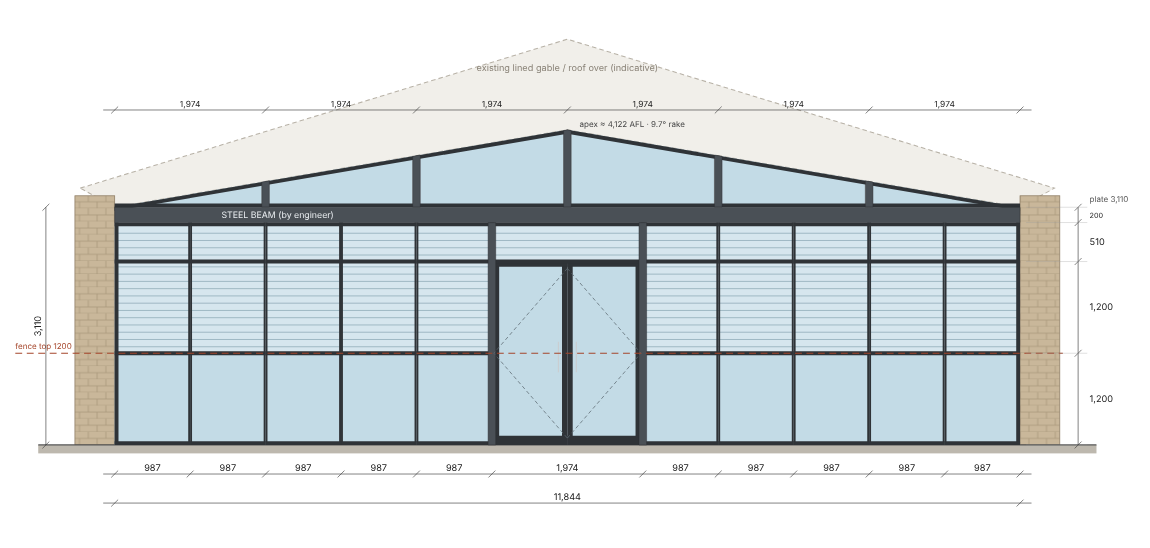
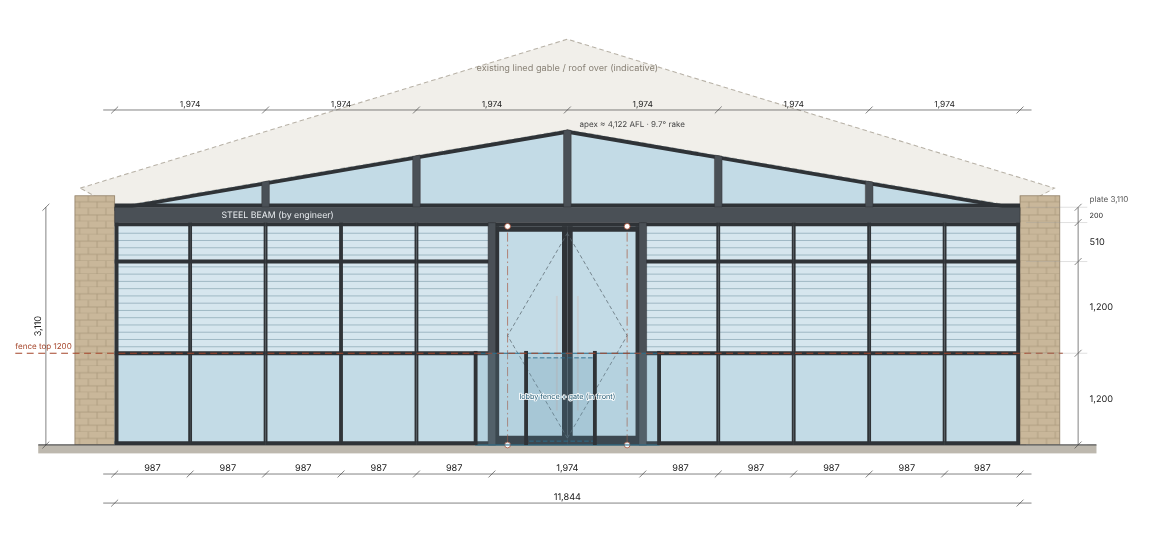
First draft: fence-line grid with pivot doors and pool-side lobby
Wall replaces the pool fence. Double pivot doors open into a
glass-fenced lobby with a self-closing gate. Adds a plan view, the
lobby on the elevation and the lobby fence in the schedule.

Claude-Session: https://claude.ai/code/session_01B6p9XfXdBmKRCjqGApuNqA

Changed region(s): [[0.3957, 0.6204, 0.5783, 0.8376], [0.4261, 0.4033, 0.5783, 0.4964]]

diff --git a/pool-window-layout/index.html b/pool-window-layout/index.html
@@ -54,7 +54,7 @@
 <body>
 <header>
   <h1>Pool alfresco gable: window layout concepts</h1>
-  <p>Glazed infill on the line of the existing glass pool fence. The opening is 11,844 wide with a 3,110 plate height and a 9.7° raked ceiling, which puts the apex about 4,120 above the floor. There's a steel beam at plate height, double doors in the centre, louvres either side and gable posts above. Drag the settings and every drawing, dimension and the schedule update.</p>
+  <p><b>First draft:</b> a glazed wall that replaces the glass pool fence on the same line and becomes the pool barrier. It's an even grid, with fixed glass to the 1,200 fence line, louvres above and double pivot doors in the centre. The doors open into a small square glass-fenced lobby on the pool side, with a self-closing gate out to the pool. The opening is 11,844 wide, and the 3,110 plate height is floor to the top of the steel beam, where the 9.7° rake starts (apex about 4,120). Gable posts line through above. Drag the settings and every drawing, dimension and the schedule update. Options A and B are kept as alternatives.</p>
 </header>
 <main>
 <section>
@@ -75,7 +75,14 @@
     <span><i style="background:#c3dbe6"></i>Fixed glass</span>
     <span><i style="background:#e6e0d5"></i>Clad pier</span>
     <span><i style="background:none;border:1.5px dashed #a5462b"></i>Pool fence top line (1200)</span>
+    <span><i style="background:#fff;border:2px solid #a5462b;border-radius:50%"></i>Pivot point (top and bottom)</span>
   </div>
+</section>
+
+<section>
+  <h2>2b · Plan at the doors: pool-side lobby (to scale, mm)</h2>
+  <div class="svgwrap"><svg id="plan" xmlns="http://www.w3.org/2000/svg"></svg></div>
+  <div class="cap">Oriented like your sketch, with the pool side at the top and the alfresco at the bottom. The pivot doors swing into the alfresco. The lobby fence (1,200 glass, so the panels from the old fence could be reused) wraps the doors on the pool side. The gate opens into the lobby, away from the pool. The bench seat is indicative, from your sketch.</div>
 </section>
 
 <section>
@@ -121,21 +128,24 @@
         <li>The door-head transom keeps gallery heights around 1.2 to 2.4 m, within what most louvre systems cover. Confirm with the supplier (e.g. Breezway or similar).</li>
         <li>For option C, keep the narrow and wide rhythm from your sketch by changing which bays are louvres and which are fixed later. The grid stays the same.</li>
       </ul>
-      <h3>Pool barrier: check before locking in</h3>
+      <h3>Pool barrier: wall + lobby</h3>
       <div class="callout">
-        Once this wall replaces the glass fence, it <b>becomes part of the pool barrier</b>. Under NSW pool rules and AS&nbsp;1926.1 (other states are similar), pools built under the post-2010 rules generally can't have a door from the house opening straight into the pool area. Openable windows and louvres in a barrier wall also have to be restricted so a 105&nbsp;mm sphere can't pass through, or be fitted with fixed security screens. Open louvre gaps usually exceed that. Ways around it:
+        The wall replaces the glass fence, so it is the pool barrier (NSW Swimming Pools Act and Regulation, AS&nbsp;1926.1). How the draft meets that:
         <ul>
-          <li>keep the existing glass fence as the barrier;</li>
-          <li>use fixed glass to 1200 (option C) and restrict or screen the louvres;</li>
-          <li>or swap the doors for fixed glass and keep access through a compliant gate.</li>
+          <li><b>Doors open into a fenced lobby, not the pool area.</b> The square glass fence on the pool side, with its gate, separates the doors from the pool, so the pivot doors sit outside the barrier.</li>
+          <li><b>Gate:</b> self-closing and self-latching, with the latch at 1,500 or higher, opening <i>into</i> the lobby (away from the pool), as in your sketch. The lobby needs to be deep enough for the gate to swing clear (the page warns you if it isn't).</li>
+          <li><b>Fixed glass from the floor to 1,200</b> along the rest of the wall is non-climbable and matches the fence height. The louvres above will probably need restrictors (opening under 105&nbsp;mm) or fixed screens. Confirm what's required at that height.</li>
+          <li>Keep the inside of the lobby clear of anything climbable within 900 of the fence, which is easy because the doors and walls are glass. The bench seat is on the pool side, which is fine.</li>
+          <li>The old fence's glass panels and spigots could be reused for the lobby.</li>
         </ul>
-        Get a pool certifier or council to sign off before ordering.
+        <b>Get the certifier to confirm the lobby arrangement before detailing.</b>
       </div>
-      <h3>To confirm on site</h3>
+      <h3>Still to confirm</h3>
       <ul>
-        <li>Is the 3,110 to the top of the plate (where the rake starts) or to the underside of the beam?</li>
-        <li>The width at floor level against the width at the plate (are the brick returns plumb?), and the slab fall at the fence line.</li>
-        <li>The doors: hinged or sliding, which way they swing, and the leaf weights (option C's leaves are about 960 wide).</li>
+        <li>The lobby size. The page assumes 2,400 wide × 1,500 deep, centred on the doors, from the proportions in your plan sketch, with a 900 gate. Are those right?</li>
+        <li>Pivot doors: full height (shown) or to the transom; the pivot hardware brand and leaf weight. At about 960 × 2,860 with 10.38 laminated glass, each leaf is roughly 70–80 kg. Should they open both ways, and is a floor spring wanted?</li>
+        <li>Is the width at floor level the same as at the plate (are the brick returns plumb?), and what's the slab fall at the fence line? This matters for the pivot floor boxes and sill drainage.</li>
+        <li>The steel beam size from the engineer. The page assumes 200 deep within the 3,110.</li>
       </ul>
     </div>
   </div>
@@ -147,9 +157,9 @@
 const PRESETS={
   A:{label:'A · As sketched',blurb:'Narrow · wide · narrow louvres either side of central double doors, with clad piers between the openings, as in your sketch.',kind:'sketch',n:700,pier:250,door:1800,base:false,hl:'louvre',gpps:1},
   B:{label:'B · Sketch rhythm, all glass',blurb:'The same narrow · wide · narrow rhythm, but with slim coupled frames instead of piers, so it reads as one glass screen like the fence.',kind:'glazed',n:900,door:1800,base:false,hl:'louvre',gpps:2},
-  C:{label:'C · Fence-line grid (recommended)',blurb:'Equal modules, a fixed glass base continuing the 1200 fence line, louvres above, and every vertical lining through to a gable post.',kind:'grid',modules:12,base:true,hl:'louvre',gpps:2},
+  C:{label:'C · Fence-line grid (first draft)',blurb:'Equal modules, a fixed glass base continuing the 1200 fence line, louvres above, double pivot doors in the centre, and every vertical lining through to a gable post.',kind:'grid',modules:12,base:true,hl:'louvre',gpps:2},
 };
-const BASE={W:11844,H:3110,pitch:9.7,beam:200,doorHead:2400,maxGal:1200,fence:1200};
+const BASE={W:11844,H:3110,pitch:9.7,beam:200,doorHead:2400,maxGal:1200,fence:1200,doorFull:true,centre:'door',pivotOff:180,lobby:true,lobW:2400,lobD:1500,gateW:900};
 let S={...BASE,preset:'C',...PRESETS.C};
 let showNew=true;
 
@@ -207,15 +217,27 @@ function geom(S){
       R('frame',b.x0,0,b.x0+jl,head);R('frame',b.x1-jr,0,b.x1,head);
       R('frame',b.x0,0,b.x1,F);R('frame',b.x0,head-F,b.x1,head);
     }
+    if(b.t==='D'&&S.centre==='fixed'){
+      b.gal=[[b.x0,(b.x0+b.x1)/2],[(b.x0+b.x1)/2,b.x1]];
+      const lines=tierLines();
+      for(let k=0;k<lines.length-1;k++){const y0=lines[k],y1=lines[k+1];
+        b.gal.forEach(([a,c])=>{R('glass',a,y0,c,y1);items.push({kind:'Fixed glass',zone:'Centre bay (no doors)',w:c-a,h:y1-y0});});
+        if(k>0)R('frame',b.x0,y0-h,b.x1,y0+h);}
+      R('frame',b.x0+b.w/2-h,0,b.x0+b.w/2+h,head);
+      R('frame',b.x0,0,b.x0+jl,head);R('frame',b.x1-jr,0,b.x1,head);R('frame',b.x0,0,b.x1,F);R('frame',b.x0,head-F,b.x1,head);
+      if(S.kind!=='sketch'){[b.x0,b.x1].forEach(x=>{R('steel',x-50,0,x+50,head);supports.push(x);});}
+      b.dl=null;return;
+    }
     if(b.t==='D'){
-      const mid=(b.x0+b.x1)/2,dh=Math.min(S.doorHead,head);
+      const mid=(b.x0+b.x1)/2,dh=S.doorFull?head-F:Math.min(S.doorHead,head);
       [[b.x0+jl,mid],[mid,b.x1-jr]].forEach(([a,c],i)=>{
         R('glass',a,0,c,dh);
         R('frame',a,0,a+70,dh);R('frame',c-70,0,c,dh);R('frame',a,dh-70,c,dh);R('frame',a,0,c,120);
-        const hx=i===0?c-125:a+110;R('hw',hx,950,hx+16,1350);
-        items.push({kind:'Door leaf',zone:'Double doors',w:c-a,h:dh});
+        const hx=i===0?c-150:a+125;R('hw',hx,450,hx+25,Math.min(1950,dh-300));
+        items.push({kind:'Pivot door leaf',zone:'Centre pivot doors',w:c-a,h:dh});
       });
-      if(dh<head-150){glazedTiers({},b.x0,b.x1,[dh,head],'door');R('frame',b.x0,dh-h,b.x1,dh+h);}
+      if(!S.doorFull&&dh<head-150){glazedTiers({},b.x0,b.x1,[dh,head],'door');R('frame',b.x0,dh-h,b.x1,dh+h);}
+      b.dh=dh;
       R('frame',b.x0,0,b.x0+jl,head);R('frame',b.x1-jr,0,b.x1,head);R('frame',b.x0,head-F,b.x1,head);
       if(S.kind!=='sketch'){[b.x0,b.x1].forEach(x=>{R('steel',x-50,0,x+50,head);supports.push(x);});}
       b.dl=[[b.x0+jl,mid],[mid,b.x1-jr]];
@@ -245,6 +267,13 @@ function geom(S){
   R('frame',0,H,F,yc(F));R('frame',W-F,H,W,yc(W-F));
   // beam
   R('steel',0,head,W,H);
+  if(S.lobby){
+    const front=S.lobW-S.gateW;
+    items.push({kind:'Pool fence glass',zone:'Lobby sides',w:S.lobD,h:S.fence},{kind:'Pool fence glass',zone:'Lobby sides',w:S.lobD,h:S.fence});
+    const hx=S.lobW*0.35,pA=hx,pB=S.lobW-hx-S.gateW;
+    [pA,pB].forEach(w=>{if(w>50)items.push({kind:'Pool fence glass',zone:'Lobby front',w,h:S.fence});});
+    items.push({kind:'Glass pool gate',zone:'Lobby front (self-closing)',w:S.gateW,h:S.fence});
+  }
   supports.sort((a,b)=>a-b);
   const spans=[];for(let i=0;i<supports.length-1;i++)spans.push(supports[i+1]-supports[i]);
   return {L,bays,posts,apex,head,yc,items,spans};
@@ -278,12 +307,25 @@ function drawSVG(S,G){
   G.L.blade.forEach(([[a,y],[c]])=>el('line',{x1:a,y1:-y,x2:c,y2:-y,stroke:'#86a3b1','stroke-width':9},g));
   ['frame','steel','hw'].forEach(k=>G.L[k].forEach(p=>el('polygon',{points:P(p),...st[k]},g)));
   // door swing marks
-  G.bays.filter(b=>b.t==='D').forEach(b=>{const dh=Math.min(S.doorHead,G.head);b.dl.forEach(([a,c],i)=>{
-    const hinge=i===0?a:c,free=i===0?c:a;
-    el('polyline',{points:P([[free,90],[hinge,dh/2],[free,dh-90]]),fill:'none',stroke:'#5d6a72','stroke-width':10,'stroke-dasharray':'50 35'},g);});
+  G.bays.filter(b=>b.t==='D'&&b.dl).forEach(b=>{const dh=b.dh;b.dl.forEach(([a,c],i)=>{
+    const px=i===0?a+S.pivotOff:c-S.pivotOff,free=i===0?c:a;
+    el('line',{x1:px,y1:-20,x2:px,y2:-(dh+20),stroke:'#a5462b','stroke-width':8,'stroke-dasharray':'120 40 20 40'},g);
+    [[px,0],[px,dh]].forEach(([x,y])=>el('circle',{cx:x,cy:-y,r:38,fill:'#fff',stroke:'#a5462b','stroke-width':10},g));
+    el('polyline',{points:P([[free,90],[px,dh/2],[free,dh-90]]),fill:'none',stroke:'#5d6a72','stroke-width':10,'stroke-dasharray':'50 35'},g);});
+    const tl=el('text',{x:(b.x0+b.x1)/2,y:-(b.dh+(G.head-b.dh)/2)+(S.doorFull?-140:40),'text-anchor':'middle','font-size':95,fill:S.doorFull?'#444':'#27414d'},g);tl.textContent=S.doorFull?'':'';
   });
   // pier labels
   G.bays.filter(b=>b.t==='S'&&b.post).forEach(b=>{const t=el('text',{x:(b.x0+b.x1)/2,y:-1700,'text-anchor':'middle','font-size':95,fill:'#7b705f',transform:`rotate(-90 ${(b.x0+b.x1)/2} -1700)`},g);t.textContent='steel post (clad)';});
+  if(S.lobby&&S.centre==='door'){
+    const lx0=W/2-S.lobW/2,lx1=W/2+S.lobW/2,hx=S.lobW*0.35;
+    // plan x -> elevation x mirrored
+    const ex=x=>W-x;
+    const g0=ex(lx0+hx),g1=ex(lx0+hx+S.gateW);
+    el('rect',{x:lx0,y:-S.fence,width:S.lobW,height:S.fence,fill:'rgba(120,170,195,0.18)',stroke:'#2d6f8c','stroke-width':14},g);
+    el('rect',{x:Math.min(g0,g1),y:-(S.fence-60),width:S.gateW,height:S.fence-110,fill:'rgba(45,111,140,0.10)',stroke:'#2d6f8c','stroke-width':12,'stroke-dasharray':'60 30'},g);
+    [lx0,lx1,g0,g1].forEach(x=>el('rect',{x:x-25,y:-S.fence-30,width:50,height:S.fence+30,fill:'#2f3337'},g));
+    const lt2=el('text',{x:W/2,y:-(S.fence*0.5),'text-anchor':'middle','font-size':95,fill:'#1d5670',stroke:'#fff','stroke-width':22,'paint-order':'stroke'},g);lt2.textContent='lobby fence + gate (in front)';
+  }
   // fence datum
   el('line',{x1:-1300,y1:-S.fence,x2:W+560,y2:-S.fence,stroke:'#a5462b','stroke-width':14,'stroke-dasharray':'90 60'},g);
   const ft=el('text',{x:-1300,y:-(S.fence+60),'font-size':105,fill:'#a5462b'},g);ft.textContent='fence top 1200';
@@ -308,6 +350,76 @@ function drawSVG(S,G){
   const t2=el('text',{x:lx-60,y:-S.H/2,stroke:'none','text-anchor':'middle',transform:`rotate(-90 ${lx-60} ${-S.H/2})`},D);t2.textContent=fmt(S.H);
   // apex
   const t3=el('text',{x:W/2+160,y:-(G.apex+40),stroke:'none','font-size':105,fill:'#444'},D);t3.textContent=`apex ≈ ${fmt(G.apex)} AFL · ${S.pitch}° rake`;
+}
+
+/* ---------- plan ---------- */
+function drawPlan(S,G){
+  const svg=document.getElementById('plan');svg.innerHTML='';
+  const W=S.W,y=v=>-v; // pool side = +y (up)
+  const x0=-700,x1=W+700,yT=Math.max(S.lobD,800)+1100,yB=2500;
+  svg.setAttribute('viewBox',`${x0} ${-yT} ${x1-x0} ${yT+yB}`);
+  const g=el('g',{},svg);
+  // zones
+  el('rect',{x:-700,y:-yT,width:W+1400,height:yT,fill:'#eaf4f8'},g);
+  el('rect',{x:-700,y:0,width:W+1400,height:yB,fill:'#efece6'},g);
+  const lab=(x,yy,s,fs=150,fill='#6b7378',anc='middle')=>{const t=el('text',{x,y:yy,'text-anchor':anc,'font-size':fs,fill},g);t.textContent=s;return t;};
+  lab(600,-yT+260,'POOL SIDE',150,'#2d6f8c','start');lab(600,yB-200,'ALFRESCO',150,'#8a7f6d','start');
+  // brick returns
+  el('rect',{x:-500,y:-150,width:500,height:yB,fill:'#c9b79a',stroke:'#8e7c63','stroke-width':10},g);
+  el('rect',{x:W,y:-150,width:500,height:yB,fill:'#c9b79a',stroke:'#8e7c63','stroke-width':10},g);
+  // wall: frames line, door gap
+  const door=G.bays.find(b=>b.t==='D');
+  const wallSeg=(a,c)=>el('rect',{x:a,y:-50,width:c-a,height:100,fill:'#2f3337'},g);
+  const glassSeg=(a,c)=>el('rect',{x:a,y:-12,width:c-a,height:24,fill:'#8fc0d6'},g);
+  if(S.centre==='door'){glassSeg(0,door.x0);glassSeg(door.x1,W);}else glassSeg(0,W);
+  const marks=[0,W];G.bays.forEach(b=>{marks.push(b.x0);(b.gal||[]).forEach(([a])=>marks.push(a));});
+  [...new Set(marks.map(Math.round))].forEach(m=>wallSeg(m-25,m+25));
+  G.bays.filter(b=>b.t==='S').forEach(b=>wallSeg(b.x0,b.x1));
+  // posts at door jambs
+  if(S.kind!=='sketch')[door.x0,door.x1].forEach(x=>el('rect',{x:x-50,y:-50,width:100,height:100,fill:'#4a5056',stroke:'#222','stroke-width':8},g));
+  // pivot doors swinging into alfresco (down)
+  if(S.centre==='door'&&door.dl){
+    door.dl.forEach(([a,c],i)=>{
+      const px=i===0?a+S.pivotOff:c-S.pivotOff,long=(c-a)-S.pivotOff,dir=i===0?1:-1;
+      el('line',{x1:px,y1:-S.pivotOff,x2:px,y2:long,stroke:'#2f3337','stroke-width':40},g); // open leaf (90°)
+      el('path',{d:`M ${px+dir*long} 0 A ${long} ${long} 0 0 ${i===0?1:0} ${px} ${long}`,fill:'none',stroke:'#5d6a72','stroke-width':10,'stroke-dasharray':'50 35'},g);
+      el('path',{d:`M ${px-dir*S.pivotOff} 0 A ${S.pivotOff} ${S.pivotOff} 0 0 ${i===0?1:0} ${px} ${-S.pivotOff}`,fill:'none',stroke:'#5d6a72','stroke-width':10,'stroke-dasharray':'30 25'},g);
+      el('circle',{cx:px,cy:0,r:45,fill:'#fff',stroke:'#a5462b','stroke-width':12},g);
+    });
+    lab((door.x0+door.x1)/2,Math.max(...door.dl.map(([a,c])=>c-a))+300,'double pivot doors',120,'#333');
+  }
+  // lobby
+  if(S.lobby&&S.centre==='door'){
+    const lx0=W/2-S.lobW/2,lx1=W/2+S.lobW/2,D=S.lobD,hx=lx0+S.lobW*0.35,gx1=hx+S.gateW;
+    el('rect',{x:lx0,y:-D,width:S.lobW,height:D,fill:'rgba(255,255,255,0.55)'},g);
+    const fence=(xa,ya,xb,yb)=>el('line',{x1:xa,y1:-ya,x2:xb,y2:-yb,stroke:'#2d6f8c','stroke-width':36},g);
+    fence(lx0,0,lx0,D);fence(lx1,0,lx1,D);fence(lx0,D,hx,D);fence(gx1,D,lx1,D);
+    // gate: hinged at hx, swings into lobby (down), away from pool
+    const ga=Math.PI*0.42,gxE=hx+S.gateW*Math.cos(ga),gyE=D-S.gateW*Math.sin(ga);
+    el('line',{x1:hx,y1:-D,x2:gxE,y2:-gyE,stroke:'#2d6f8c','stroke-width':28},g);
+    el('path',{d:`M ${gx1} ${-D} A ${S.gateW} ${S.gateW} 0 0 1 ${gxE} ${-gyE}`,fill:'none',stroke:'#2d6f8c','stroke-width':10,'stroke-dasharray':'40 30'},g);
+    [[lx0,D],[lx1,D],[hx,D],[gx1,D]].forEach(([xx,yy])=>el('rect',{x:xx-40,y:-yy-40,width:80,height:80,fill:'#2f3337'},g));
+    lab(W/2,-D/2+50,'LOBBY',130,'#2d6f8c');
+    lab((hx+gx1)/2,-D-110,'self-closing gate',105,'#2d6f8c');
+    // bench seat (indicative) to the right of lobby, along the wall
+    const bw=Math.min(2000,W-lx1-300);
+    if(bw>400){const r=el('rect',{x:lx1+60,y:-500,width:bw,height:450,fill:'#d8c8ab',stroke:'#9d8a68','stroke-width':10},g);
+      for(let xx=lx1+260;xx<lx1+60+bw;xx+=200)el('line',{x1:xx,y1:-480,x2:xx,y2:-70,stroke:'#9d8a68','stroke-width':8},g);
+      lab(lx1+60+bw/2,-580,'bench seat (indicative)',100,'#7b6a4c');}
+    // dims
+    const D_=el('g',{stroke:'#333','stroke-width':8,fill:'#222','font-size':115},svg);
+    const tk=(x,yy)=>el('line',{x1:x-40,y1:-yy+40,x2:x+40,y2:-yy-40},D_);
+    const dy=D+420;el('line',{x1:lx0-120,y1:-dy,x2:lx1+120,y2:-dy},D_);[lx0,hx,gx1,lx1].forEach(x=>tk(x,dy));
+    [[lx0,hx],[hx,gx1],[gx1,lx1]].forEach(([a,c])=>{const t=el('text',{x:(a+c)/2,y:-dy-35,'text-anchor':'middle',stroke:'none'},D_);t.textContent=fmt(c-a);});
+    const dy2=D+780;el('line',{x1:lx0-120,y1:-dy2,x2:lx1+120,y2:-dy2},D_);[lx0,lx1].forEach(x=>tk(x,dy2));
+    const t2=el('text',{x:W/2,y:-dy2-35,'text-anchor':'middle',stroke:'none'},D_);t2.textContent='lobby '+fmt(S.lobW);
+    const vx=lx0-380;el('line',{x1:vx,y1:0,x2:vx,y2:-D},D_);tk(vx,0);tk(vx,D);
+    const t3=el('text',{x:vx-50,y:-D/2,'text-anchor':'middle',stroke:'none',transform:`rotate(-90 ${vx-50} ${-D/2})`},D_);t3.textContent=fmt(D);
+  }
+  // overall
+  const D2=el('g',{stroke:'#333','stroke-width':8,fill:'#222','font-size':120},svg);
+  el('line',{x1:-150,y1:yB-500,x2:W+150,y2:yB-500},D2);[0,W].forEach(x=>el('line',{x1:x-40,y1:yB-460,x2:x+40,y2:yB-540},D2));
+  const to=el('text',{x:W/2,y:yB-540,'text-anchor':'middle',stroke:'none'},D2);to.textContent=fmt(W)+' (gable wall on old fence line)';
 }
 
 /* ---------- photo montage ---------- */
@@ -357,7 +469,7 @@ function drawSchedule(G){
   const groups=new Map();
   G.items.forEach(it=>{const key=[it.kind,it.zone,Math.round(it.w),Math.round(it.h),Math.round(it.h2||0)].join('|');
     const g=groups.get(key)||{...it,q:0};g.q++;groups.set(key,g);});
-  const order={'Door leaf':0,'Glass louvre':1,'Fixed glass':2,'Raked fixed glass':3};
+  const order={'Pool fence glass':4,'Glass pool gate':5,'Pivot door leaf':0,'Glass louvre':1,'Fixed glass':2,'Raked fixed glass':3};
   const rows=[...groups.values()].sort((a,b)=>order[a.kind]-order[b.kind]||a.zone.localeCompare(b.zone)||b.w-a.w);
   let html='<tr><th>Ref</th><th>Type</th><th>Zone</th><th class="n">Width</th><th class="n">Height</th><th class="n">Qty</th><th class="n">Area m² (total)</th></tr>';
   let tot=0;
@@ -375,7 +487,12 @@ function controlsFor(S){
   if(S.kind!=='grid'){R('door','Door opening width',1500,2600,10);R('n','Narrow louvre bay',450,1300,10);}
   if(S.kind==='sketch')R('pier','Pier width',150,500,10);
   if(S.kind==='grid')c.push({key:'modules',label:'Modules across',type:'select',opts:[[10,'10 (≈1,184)'],[12,'12 (≈987)'],[14,'14 (≈846)']]});
-  R('doorHead','Door head / transom height',2040,2900,10);
+  c.push({key:'centre',label:'Centre bay',type:'select',opts:[['door','Double pivot doors'],['fixed','Fixed glass (barrier fallback)']]});
+  c.push({key:'doorFull',label:'Pivot door height',type:'select',opts:[[1,'Full height to beam'],[0,'To transom + highlight']]});
+  R('pivotOff','Pivot offset from jamb',100,400,10);
+  c.push({key:'lobby',label:'Pool-side lobby fence',type:'select',opts:[[1,'Yes (doors open into lobby)'],[0,'No']]});
+  R('lobW','Lobby width',1800,4000,10);R('lobD','Lobby depth',1000,2500,10);R('gateW','Gate width',800,1000,10);
+  R('doorHead','Transom height (louvre top)',2040,2900,10);
   R('beam','Steel beam depth',150,400,10);
   R('maxGal','Max louvre gallery width',800,1500,10);
   c.push({key:'gpps',label:'Gable posts each side of centre',type:'select',opts:[[0,'0 (centre post only)'],[1,'1'],[2,'2']]});
@@ -395,9 +512,9 @@ function renderControls(){
       const inp=lab.querySelector('input'),out=lab.querySelector('output');
       inp.oninput=()=>{S[c.key]=+inp.value;out.textContent=fmt(S[c.key]);update();};
     }else if(c.type==='select'){
-      const cur=c.key==='base'?(S.base?1:0):S[c.key];
+      const cur=(c.key==='base'||c.key==='doorFull'||c.key==='lobby')?(S[c.key]?1:0):S[c.key];
       lab.innerHTML=`<span>${c.label}</span><select>${c.opts.map(([v,t])=>`<option value="${v}" ${String(v)===String(cur)?'selected':''}>${t}</option>`).join('')}</select>`;
-      const s=lab.querySelector('select');s.onchange=()=>{const v=s.value;S[c.key]=c.key==='base'?v==='1':(c.key==='hl'?v:+v);update();};
+      const s=lab.querySelector('select');s.onchange=()=>{const v=s.value;S[c.key]=(c.key==='base'||c.key==='doorFull'||c.key==='lobby')?v==='1':((c.key==='hl'||c.key==='centre')?v:+v);update();};
     }else{
       lab.innerHTML=`<span>${c.label}</span><input type="number" step="${c.step||1}" value="${S[c.key]}">`;
       const inp=lab.querySelector('input');inp.onchange=()=>{const v=+inp.value;if(v>0){S[c.key]=v;update();}};
@@ -407,10 +524,10 @@ function renderControls(){
 }
 function renderPresets(){
   const box=document.getElementById('presets');box.innerHTML='';
-  Object.entries(PRESETS).forEach(([k,p])=>{
+  ['C','A','B'].map(k=>[k,PRESETS[k]]).forEach(([k,p])=>{
     const b=document.createElement('button');b.setAttribute('aria-pressed',S.preset===k);
     b.innerHTML=`<b>${p.label}</b><span>${p.blurb}</span>`;
-    b.onclick=()=>{S={...BASE,W:S.W,H:S.H,pitch:S.pitch,preset:k,...p};renderPresets();renderControls();update();};
+    b.onclick=()=>{S={...BASE,W:S.W,H:S.H,pitch:S.pitch,doorFull:S.doorFull,centre:S.centre,beam:S.beam,lobby:S.lobby,lobW:S.lobW,lobD:S.lobD,gateW:S.gateW,preset:k,...p};renderPresets();renderControls();update();};
     box.appendChild(b);
   });
 }
@@ -418,19 +535,22 @@ function update(){
   const G=geom(S);
   const warn=[];
   G.bays.forEach(b=>{if(b.w<=100)warn.push('The wide louvre bays have no width left. Reduce the narrow bays, piers or door width.');});
-  if(S.doorHead>=G.head-150)warn.push('The door head is at or near the beam, so the highlight row has been dropped.');
-  document.getElementById('warn').innerHTML=warn.length?`<div class="warnbox">${[...new Set(warn)].join('<br>')}</div>`:'';
+  if(S.doorHead>=G.head-150)warn.push('The transom is at or near the beam, so the highlight row has been dropped.');
+  if(S.centre==='door'&&S.lobby&&S.lobD<S.gateW+150)warn.push('The lobby is too shallow for the gate to swing inward. Make it deeper or use a narrower gate.');
+  if(S.centre==='door'&&!S.lobby)warn.push('<b>Pool barrier:</b> with the wall replacing the fence, pivot doors open straight into the pool area. In NSW that is generally not permitted for pools built under the post-2010 rules. Check with your certifier before going further. The “Centre bay → Fixed glass” setting shows the fallback.');
+  document.getElementById('warn').innerHTML=warn.length?`<div class="warnbox">${[...new Set(warn)].join('<br><br>')}</div>`:'';
   const door=G.bays.find(b=>b.t==='D'),wide=G.bays.filter(b=>b.t==='L').reduce((m,b)=>b.w>m.w?b:m,{w:0});
   const chips=[
-    ['Door opening',fmt(door.w)+' → 2 leaves ≈ '+fmt((door.w-50)/2)],
+    S.centre==='door'?['Pivot doors',fmt(door.w)+' opening → 2 leaves ≈ '+fmt((door.w-50)/2)+' × '+fmt(door.dh)]:['Centre bay','fixed glass '+fmt(door.w)],
     ['Widest louvre bay',fmt(wide.w)+(wide.gal&&wide.gal.length>1?` (${wide.gal.length} galleries of ${fmt(wide.w/wide.gal.length)})`:'')],
     ['Lower glazing head',fmt(G.head)],
+    ...(S.lobby&&S.centre==='door'?[['Lobby',fmt(S.lobW)+' × '+fmt(S.lobD)+', gate '+fmt(S.gateW)]]:[]),
     ['Apex',fmt(G.apex)+' AFL'],
     ['Gable posts at',G.posts.map(x=>fmt(x-S.W/2)).join(' · ')+' from centre'],
     ['Beam spans',G.spans.map(fmt).join(' / ')],
   ];
   document.getElementById('chips').innerHTML=chips.map(([a,b])=>`<span class="chip">${a}: <b>${b}</b></span>`).join('');
-  drawSVG(S,G);drawMontage(S,G);drawSchedule(G);
+  drawSVG(S,G);drawPlan(S,G);drawMontage(S,G);drawSchedule(G);
 }
 document.querySelectorAll('#mtoggle button').forEach(b=>b.onclick=()=>{showNew=b.dataset.m==='1';
   document.querySelectorAll('#mtoggle button').forEach(x=>x.setAttribute('aria-pressed',x===b));update();});

diff --git a/pool-window-layout/README.md b/pool-window-layout/README.md
@@ -5,6 +5,6 @@ Open `index.html` in a browser. It's an interactive, to-scale elevation for the 
 
 - **A – As sketched:** narrow/wide/narrow louvres either side of central double doors, with clad piers between.
 - **B – Sketch rhythm, all glass:** the same rhythm with slim coupled frames and steel posts at the door jambs.
-- **C – Fence-line grid (recommended):** 12 × 987 modules, a fixed glass base to the 1200 fence line, louvres above and gable posts on the grid.
+- **C – Fence-line grid (first draft):** 12 × 987 modules, a fixed glass base to the 1200 fence line, louvres above, double pivot doors opening into a glass-fenced pool-side lobby with a self-closing gate, and gable posts on the grid.
 
-Sliders update the elevation, the photo overlay and the opening schedule. Static snapshots: `elev_A.png`, `elev_B.png`, `elev_C.png`, `mont_C.png`.
+Sliders update the elevation, the photo overlay and the opening schedule. Static snapshots: `elev_A.png`, `elev_B.png`, `elev_C.png`, `plan_C.png`, `mont_C.png`.
